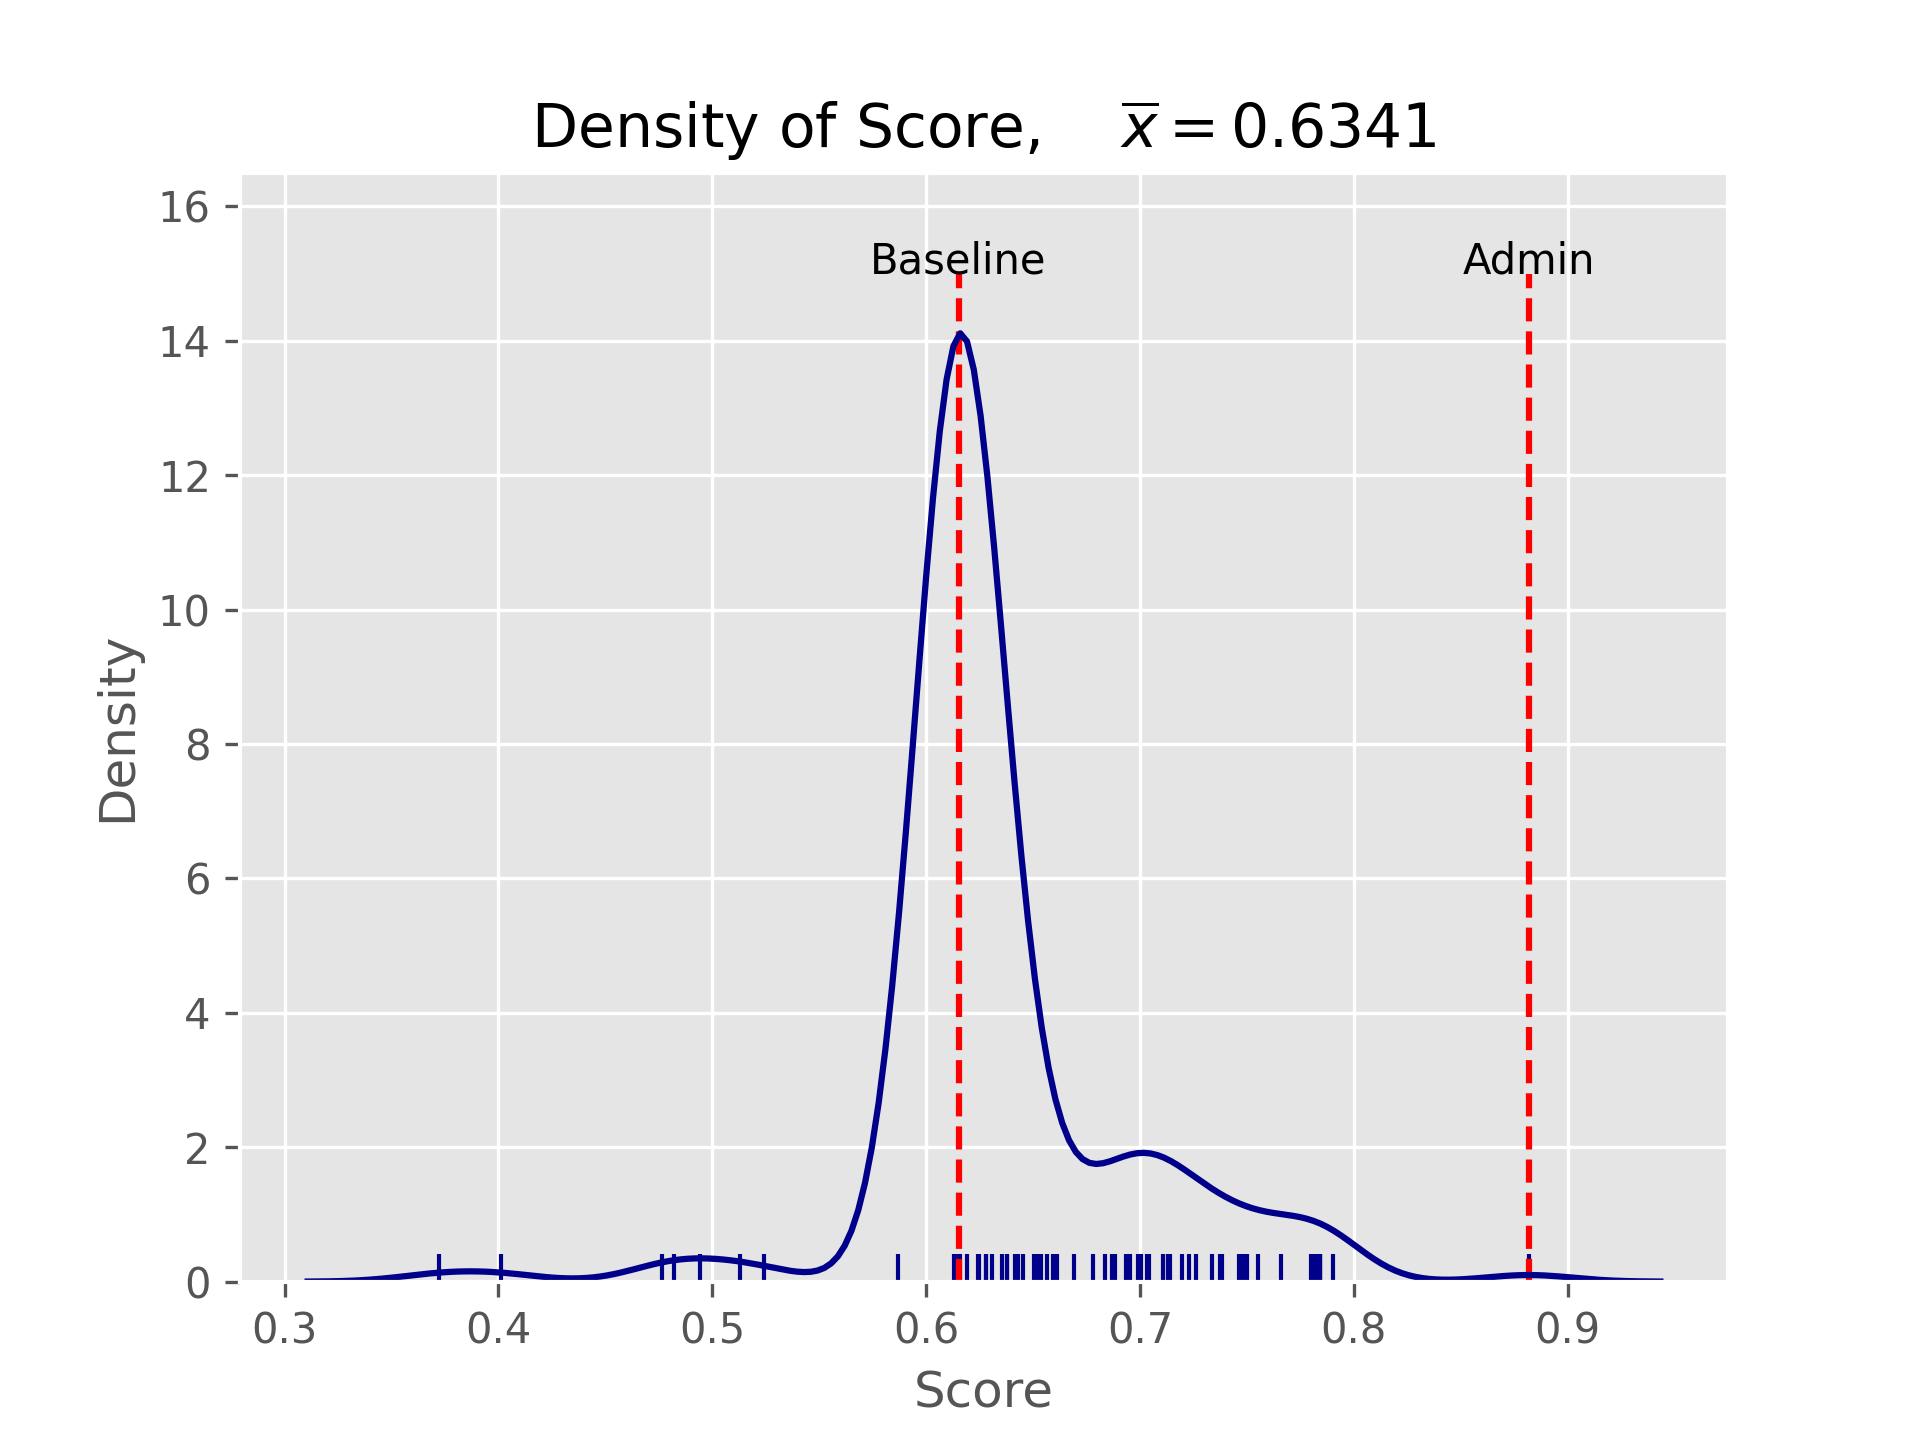
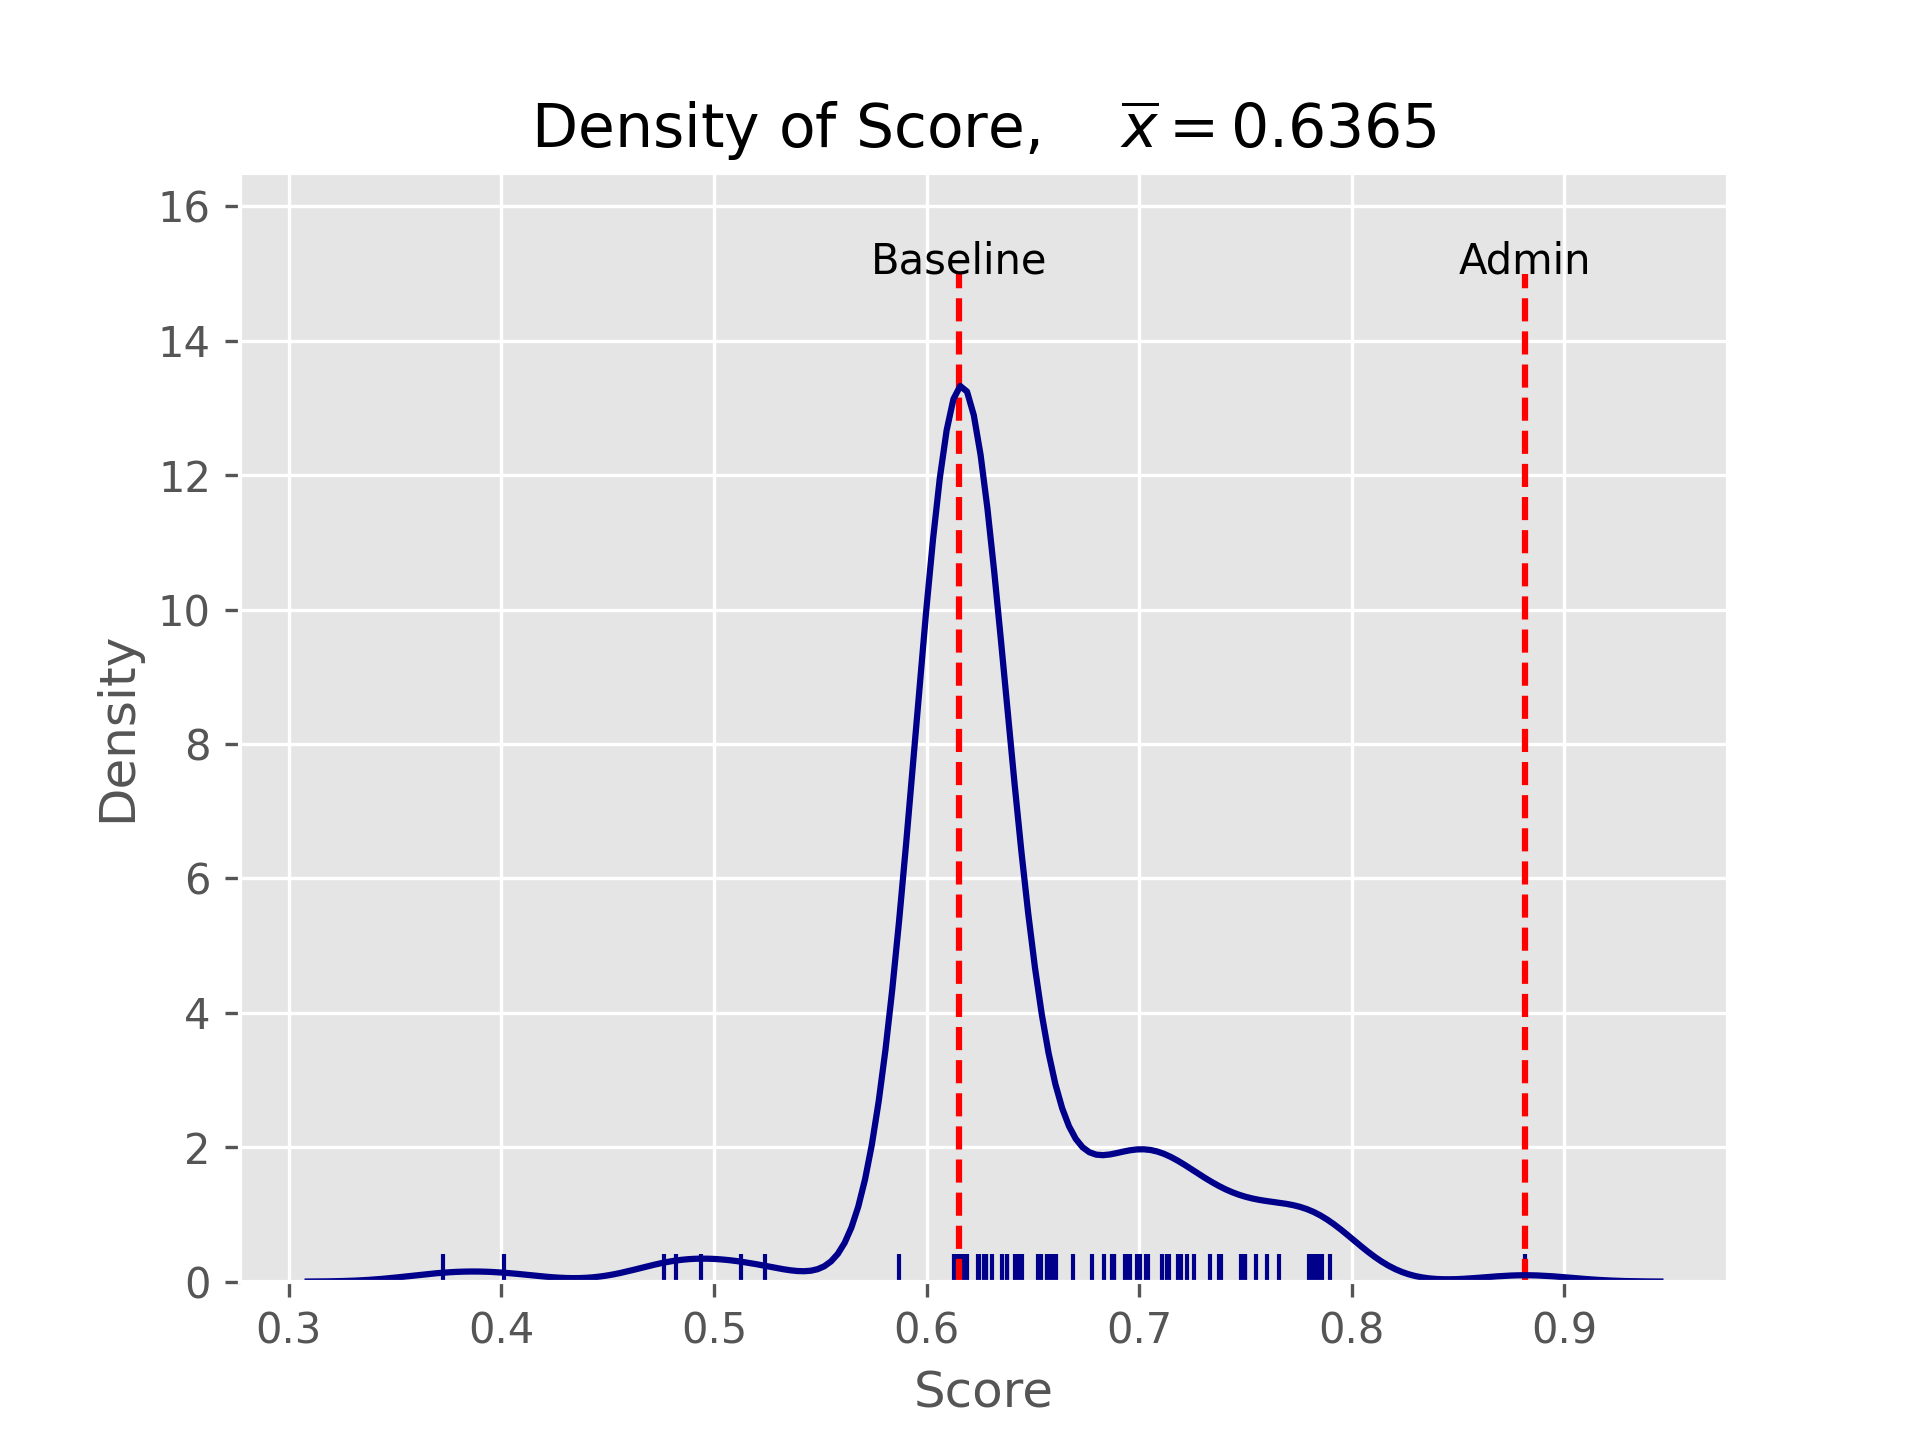
2:00 update

diff --git a/README.md b/README.md
@@ -1,6 +1,6 @@
 # ETC3250 Kaggle score
 
-**Last updated: May 11, 2021 21:49:33**
+**Last updated: May 12, 2021 02:18:01**
 
 ## Public leaderboard
 
@@ -16,23 +16,26 @@ Number of teams: 199
 |---|---|---|---|---|
 |6738671|Admin|04 May 18:43:34|0.88172|14|
 |6755904|wtan0062|11 May 19:45:00|0.79003|12|
+|6768738|iamnotaduck|11 May 23:10:49|0.78607|12|
 |6767591|EddieBoy|11 May 11:19:17|0.78438|12|
 |6765261|zyan0056@ supereli|11 May 11:29:03|0.78438|12|
 |6754828|mwjon5|10 May 15:27:24|0.78438|12|
 |6749317|[Deleted] fcf8662d-9cae-4735-a131-9968aeda505a|09 May 10:43:07|0.78324|12|
 |6749482|dzho37|11 May 11:07:23|0.78155|12|
 |6763495|Yongkang Ni|11 May 17:50:36|0.77985|12|
-|6759412|Davide Signor|10 May 21:16:49|0.76570|11|
+|6759412|Davide Signor|11 May 22:30:03|0.76570|11|
+|6761625|Le-Hao Jian|11 May 23:53:20|0.76004|11|
 |6758694|nhee0002|10 May 00:04:48|0.75495|11|
 |6749357|pdai0002|11 May 16:45:15|0.74985|11|
+|6768666|jham0020|11 May 23:24:11|0.74985|11|
 |6754021|ntry0001|11 May 11:39:32|0.74816|11|
-|6761625|Le-Hao Jian|10 May 23:31:10|0.74646|11|
 |6754693|Cindy Wang|10 May 23:42:12|0.73853|11|
 |6760740|qwan0060|11 May 13:04:53|0.73740|10|
 |6749892|Zhongzheng Zhang|11 May 21:12:21|0.73344|10|
 |6755448|jwan0296|11 May 15:08:14|0.72608|10|
 |6757633|lbao0008|11 May 20:44:10|0.72269|10|
 |6749310|rtia0007|11 May 10:10:24|0.71986|10|
+|6750774|yhua0047|11 May 22:24:01|0.71816|10|
 |6751234|Guy H Davis|11 May 13:55:46|0.71420|10|
 |6749351|jche0254|10 May 22:35:50|0.71307|10|
 |6749366|xwan0160|10 May 22:39:09|0.71307|10|
@@ -44,32 +47,35 @@ Number of teams: 199
 |6760555|zzha0230|10 May 23:46:05|0.70005|10|
 |6755522|casco2|11 May 19:45:57|0.69892|10|
 |6761498|qche0022|11 May 17:05:23|0.69552|10|
-|6750774|yhua0047|10 May 19:50:54|0.69496|10|
 |6751598|hfen27|09 May 14:18:24|0.69496|10|
 |6753832|hmaus1|11 May 21:06:15|0.69326|10|
 |6749490|fwan0018|11 May 10:10:56|0.68817|10|
+|6749457|Cristian Corrado|11 May 22:37:33|0.68817|10|
 |6753842|Anqi Luo|11 May 01:05:00|0.68704|10|
 |6759022|claw0008|11 May 10:11:44|0.68364|10|
 |6753670|Tran Thanh Han Ha|09 May 18:38:25|0.67798|10|
 |6753817|JiaPeng0106|10 May 13:28:44|0.66893|9|
 |6775741|blen0004|11 May 16:24:16|0.66100|8|
 |6754894|dama0007|11 May 12:55:43|0.65930|8|
+|6765541|wtan0001|11 May 22:29:03|0.65761|8|
 |6753795|ttra0038|11 May 16:42:37|0.65647|8|
+|6754129|ghan0002|11 May 22:28:29|0.65647|8|
 |6759838|xwuu0061|11 May 11:02:24|0.65365|<=7|
 |6763613|ofon0002|11 May 20:21:52|0.65251|<=7|
-|6768738|iamnotaduck|10 May 16:07:37|0.65025|<=7|
 |6764503|Yu Zhou|11 May 19:26:06|0.64516|<=7|
 |6754314|Alexi Tsakis|11 May 18:48:46|0.64289|<=7|
 |6760317|Wliu0044|11 May 20:32:01|0.64176|<=7|
 |6765060|khyd0001|11 May 20:05:44|0.63780|<=7|
 |6765501|iren0002|11 May 21:17:59|0.63780|<=7|
 |6760382|jlee0179|11 May 21:35:49|0.63554|<=7|
-|6759731|Daniel Ong|10 May 21:26:57|0.63101|<=7|
+|6759731|Daniel Ong|12 May 01:01:41|0.63101|<=7|
 |6749592|igup0001|11 May 18:04:35|0.62818|<=7|
 |6755781|vwid06|10 May 16:44:20|0.62818|<=7|
+|6751555|jwah0003|11 May 23:53:25|0.62705|<=7|
 |6763983|Jpan0029|11 May 21:16:15|0.62478|<=7|
 |6755591|ltmoo2|11 May 10:33:07|0.62422|<=7|
 |6753638|nper0009|11 May 12:19:33|0.61912|<=7|
+|6754716|efre0004|12 May 00:50:40|0.61743|<=7|
 |6749822|John Yan|11 May 21:45:21|0.61573|<=7|
 |6738627|predictions_2021-05-04.csv|04 May 17:42:25|0.61516|<=7|
 |6749412|Monchy|11 May 11:43:52|0.61516|<=7|
@@ -88,7 +94,7 @@ Number of teams: 199
 |6754050|Filippo Gioffre|11 May 19:00:20|0.61516|<=7|
 |6754085|Tomer Fridland|10 May 22:48:25|0.61516|<=7|
 |6754262|Namrata Goel|07 May 13:16:59|0.61516|<=7|
-|6754439|cyee0011|11 May 00:00:49|0.61516|<=7|
+|6754439|cyee0011|12 May 01:42:24|0.61516|<=7|
 |6754465|vvoo0004|07 May 14:16:27|0.61516|<=7|
 |6753813|yzha0633|11 May 17:45:27|0.61516|<=7|
 |6754610|dvek0001|10 May 11:17:59|0.61516|<=7|
@@ -98,7 +104,6 @@ Number of teams: 199
 |6756315|Qin Zhou 29287170|07 May 21:43:39|0.61516|<=7|
 |6756637|lqia0006|11 May 20:55:51|0.61516|<=7|
 |6756740|psap0002|11 May 15:12:24|0.61516|<=7|
-|6751555|jwah0003|11 May 01:46:11|0.61516|<=7|
 |6750103|heva0001|08 May 08:22:09|0.61516|<=7|
 |6758582|Vinny Vu|11 May 12:22:51|0.61516|<=7|
 |6758766|hhen0005|08 May 10:49:43|0.61516|<=7|
@@ -107,9 +112,8 @@ Number of teams: 199
 |6759272|Suyue|08 May 13:38:52|0.61516|<=7|
 |6759061|Abin John|08 May 13:45:25|0.61516|<=7|
 |6759596|monash_jpea00100|08 May 15:43:01|0.61516|<=7|
-|6749457|Cristian Corrado|10 May 10:17:30|0.61516|<=7|
 |6759088|skhu0008|08 May 18:00:43|0.61516|<=7|
-|6758921|Zhijun Li/zlii0231|10 May 19:14:01|0.61516|<=7|
+|6758921|Zhijun Li/zlii0231|11 May 21:52:44|0.61516|<=7|
 |6760487|Junze Zeng|08 May 18:39:04|0.61516|<=7|
 |6760529|maam0001|11 May 13:43:24|0.61516|<=7|
 |6750698|yjia0021|10 May 23:56:26|0.61516|<=7|
@@ -136,12 +140,12 @@ Number of teams: 199
 |6760102|Yuheng Cui|09 May 13:49:20|0.61516|<=7|
 |6763905|xliu0026|09 May 14:34:56|0.61516|<=7|
 |6754507|VincentVincent13|09 May 14:40:35|0.61516|<=7|
-|6750992|Qimei Yang|09 May 14:44:49|0.61516|<=7|
+|6750992|Qimei Yang|11 May 23:37:59|0.61516|<=7|
 |6763958|berob5|09 May 14:52:03|0.61516|<=7|
 |6754556|sami0006|11 May 19:42:02|0.61516|<=7|
 |6753957|Matthew Willaton|11 May 10:39:12|0.61516|<=7|
 |6764289|Thomas Pranoto|09 May 16:40:01|0.61516|<=7|
-|6764345|yliu0320|11 May 01:32:59|0.61516|<=7|
+|6764345|yliu0320|12 May 00:25:16|0.61516|<=7|
 |6764303|fpso0001|09 May 16:58:17|0.61516|<=7|
 |6762192|abab0012|09 May 17:31:20|0.61516|<=7|
 |6755482|dche0021|09 May 17:39:49|0.61516|<=7|
@@ -156,12 +160,9 @@ Number of teams: 199
 |6765326|ywan0454|09 May 21:56:01|0.61516|<=7|
 |6765399|ymia21|09 May 22:04:28|0.61516|<=7|
 |6765339|jgra0012|09 May 22:08:13|0.61516|<=7|
-|6754129|ghan0002|10 May 21:51:21|0.61516|<=7|
-|6765541|wtan0001|10 May 21:51:41|0.61516|<=7|
 |6765463|lwan0125|09 May 23:31:25|0.61516|<=7|
 |6763638|heva0003|10 May 00:09:22|0.61516|<=7|
 |6766356|shua0076|10 May 01:50:18|0.61516|<=7|
-|6754716|efre0004|10 May 01:51:09|0.61516|<=7|
 |6766440|Chenjie Gong|10 May 02:15:10|0.61516|<=7|
 |6766419|Tong Qiu|10 May 02:16:31|0.61516|<=7|
 |6765312|mqas0003|11 May 20:52:58|0.61516|<=7|
@@ -172,7 +173,7 @@ Number of teams: 199
 |6750607|hngo0005|10 May 04:59:18|0.61516|<=7|
 |6754254|uwas0001|10 May 08:54:45|0.61516|<=7|
 |6767378|Arzu Khanna|10 May 09:30:22|0.61516|<=7|
-|6767433|ang0004|10 May 10:07:04|0.61516|<=7|
+|6767433|ang0004|11 May 23:22:29|0.61516|<=7|
 |6767628|Bo Zhang 3520|10 May 11:03:37|0.61516|<=7|
 |6765741|bwen0003|10 May 11:09:46|0.61516|<=7|
 |6767860|ylii0273|10 May 12:24:16|0.61516|<=7|
@@ -182,29 +183,28 @@ Number of teams: 199
 |6768046|asei0003|10 May 13:27:36|0.61516|<=7|
 |6768141|Don_Eggsaladsanga|10 May 13:31:21|0.61516|<=7|
 |6768108|jgre0006|10 May 13:53:07|0.61516|<=7|
-|6768276|Alex Chou|10 May 14:10:15|0.61516|<=7|
+|6768276|Alex Chou|11 May 22:04:29|0.61516|<=7|
 |6768279|Thomas Winson|10 May 14:16:39|0.61516|<=7|
 |6755755|Tze Hin Chang|10 May 14:40:11|0.61516|<=7|
 |6768540|bzha0014|11 May 11:02:58|0.61516|<=7|
 |6768582|ague0004|10 May 15:25:01|0.61516|<=7|
 |6768590|bhua0008|10 May 15:25:13|0.61516|<=7|
 |6768117|Alysa Vongsykeo|10 May 15:53:17|0.61516|<=7|
-|6768666|jham0020|10 May 15:55:27|0.61516|<=7|
 |6759326|Emily Sheehan|10 May 16:06:25|0.61516|<=7|
 |6766670|rlai0004|10 May 16:25:54|0.61516|<=7|
 |6768901|blaw0002|11 May 10:45:22|0.61516|<=7|
 |6766956|sbat0011|10 May 16:53:53|0.61516|<=7|
-|6765496|Abhishek Sinha|10 May 16:58:50|0.61516|<=7|
+|6765496|Abhishek Sinha|11 May 23:19:40|0.61516|<=7|
 |6768988|emaa0001|10 May 17:02:23|0.61516|<=7|
 |6768060|ylok0006|10 May 17:23:53|0.61516|<=7|
 |6769593|Shu To Yeung|10 May 19:09:59|0.61516|<=7|
 |6749474|Thomas Crowe|10 May 21:32:14|0.61516|<=7|
-|6770339|Jonathan Alexandro|10 May 22:23:43|0.61516|<=7|
+|6770339|Jonathan Alexandro|12 May 00:40:22|0.61516|<=7|
 |6770619|MingKaiToh|10 May 22:52:12|0.61516|<=7|
 |6757039|phun0001|11 May 01:27:31|0.61516|<=7|
 |6754493|Po-Yu Huang|11 May 01:34:58|0.61516|<=7|
 |6767902|wfer0009|11 May 15:28:27|0.61516|<=7|
-|6750421|sche0149|10 May 19:09:36|0.61290|<=7|
+|6750421|sche0149|11 May 22:45:19|0.61290|<=7|
 |6776729|John|11 May 18:27:28|0.58687|<=7|
 |6760476|ang0005|10 May 16:07:25|0.52405|<=7|
 |6759274|Dwayne Pinto|11 May 20:44:08|0.51273|<=7|
